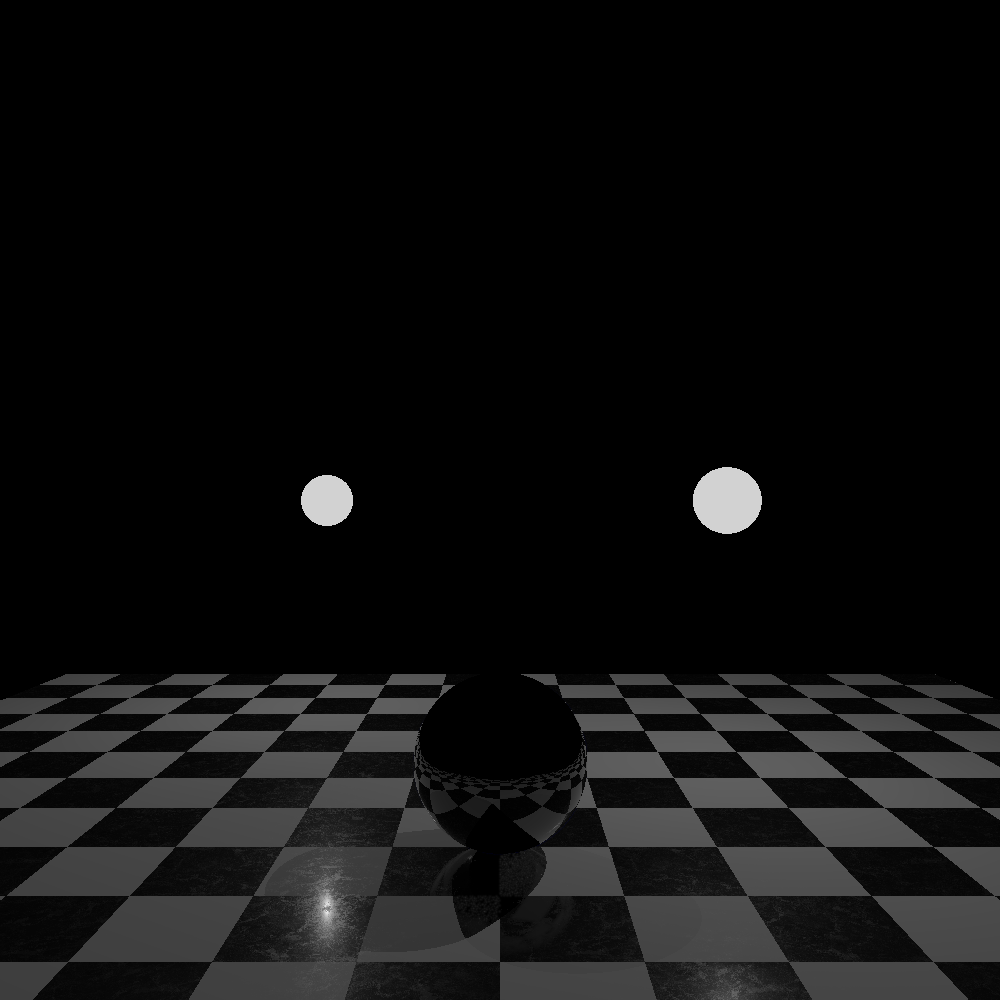
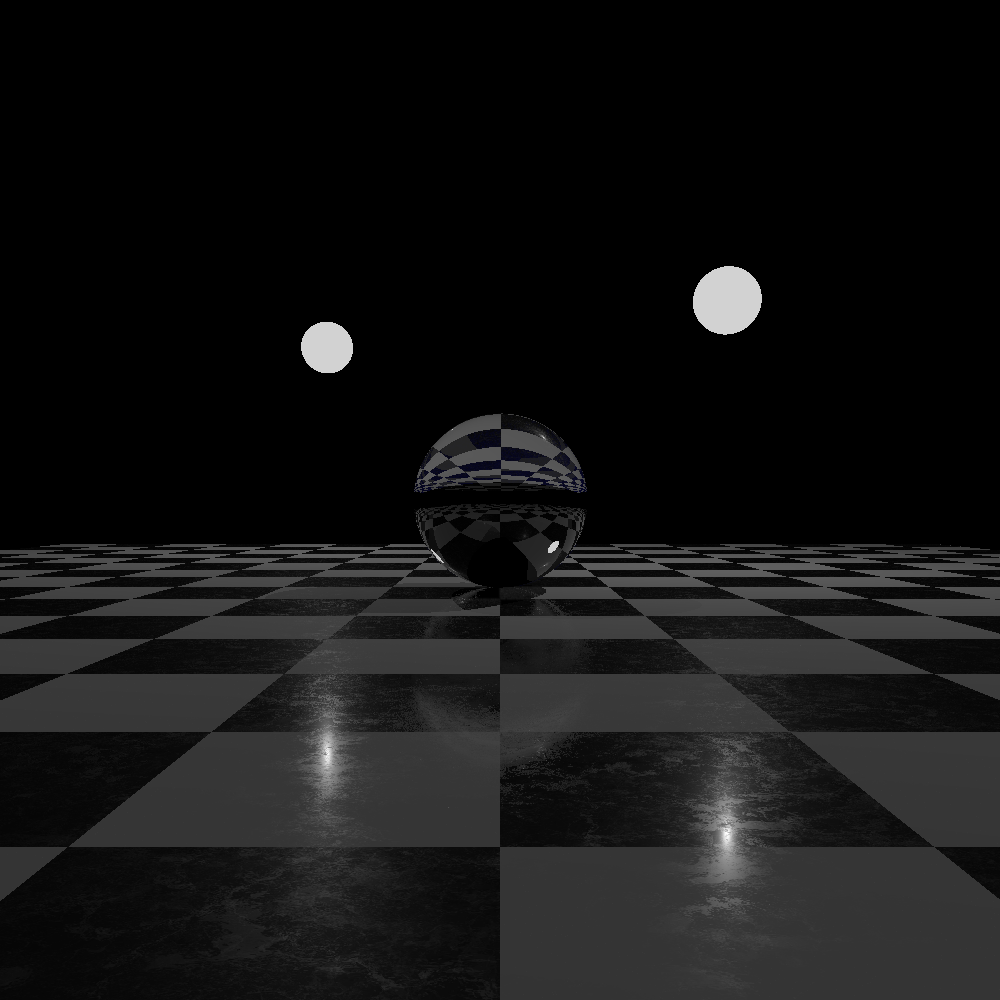
glass cannon perk

diff --git a/src/cgg/RayTracer.java b/src/cgg/RayTracer.java
@@ -376,43 +376,39 @@ public class RayTracer implements Sampler
 			// recalculate
 			p_Normal = multiply(p_Normal,-1);
 			__CosTheta = dot(p_Normal,ray.direction());
-			// FIXME is signswap equivalent?
 
 			// swap factors
 			__N0 = __N1;
 			__N1 = 1.;
 		}
 
-		// fresnel approximation
-		double __Schlick = pow((__N0-__N1)/(__N0+__N1),2.);
-		__Schlick = __Schlick+(1-__Schlick)*pow(1+__CosTheta,5.);
-
-		// in case of total reflection
-		double __R = (__N0/__N1);
-		double __DC = 1-pow(__R,2.)*(1-pow(-__CosTheta,2.));
-		if (__DC<0) __Schlick = 1.;
-
 		// calculate refraction
-		Color __Refraction = color(0,0,.5);
+		double __Schlick = transmissionSchlick(__CosTheta,__N0,__N1);
+		Color __Refraction = color(0,0,0);
 		if (__Schlick<.99)
 		{
-			Vec3 __FacDirection = multiply(ray.direction(),__R);
-			Vec3 __FacDC = multiply(hit.normal(),__R*-__CosTheta-sqrt(__DC));
-			Vec3 __RefDirection = add(__FacDirection,__FacDC);
-			Ray __RefractRay = new Ray(hit.position(),__RefDirection);
-			__Refraction = _processScene(__RefractRay,coord,depth);
+			Vec3 __RefractDirection = refract(ray.direction(),p_Normal,__CosTheta,__N0,__N1);
+			if (__RefractDirection!=null)
+			{
+				Ray __RefractRay = new Ray(hit.position(),__RefractDirection);
+				__Refraction = _processScene(__RefractRay,coord,depth);
+				__Refraction = multiply(__Refraction,1-__Schlick);
+			}
+			else __Schlick = 1.;
 		}
 
 		// calculate reflection
 		Color __Reflection = color(0,0,0);
 		if (__Schlick>.01)
 		{
-			Ray __ReflectRay = new Ray(hit.position(),bounce(ray.direction(),hit.normal()));
+			Ray __ReflectRay = new Ray(hit.position(),bounce(ray.direction(),p_Normal));
 			__Reflection = _processScene(__ReflectRay,coord,depth+1);
+			__Reflection = multiply(__Reflection,__Schlick);
 		}
 
 		// combine components
-		return mix(__Refraction,__Reflection,__Schlick);
+		return add(__Reflection,__Refraction);
+		// FIXME there is some weird blue tint over refraction component
 	}
 
 	private Vec3 _diffuseComponent(Vec2 coord,int depth,Hit hit,Vec3 fresnel,double metallic)

diff --git a/src/tools/Functions.java b/src/tools/Functions.java
@@ -2,6 +2,7 @@ package tools;
 
 import java.lang.Math;
 
+
 /**
  * Utility class providing various mathematical and vector operations.
  */
@@ -1208,6 +1209,25 @@ public class Functions {
 	public static Vec3 bounce(Vec3 dir,Vec3 normal)
 	{
 		return add(dir,multiply(2*dot(multiply(dir,-1),normal),normal));
+	}
+
+	public static double transmissionSchlick(double cosTheta,double n0,double n1)
+	{
+		double out = Math.pow((n0-n1)/(n0+n1),2.);
+		return out+(1-out)*Math.pow(1+cosTheta,5.);
+	}
+
+	public static Vec3 refract(Vec3 dir,Vec3 normal,double cosTheta,double n0,double n1)
+	{
+		// in case of total reflection
+		double __R = (n0/n1);
+		double __DC = 1-Math.pow(__R,2.)*(1-Math.pow(-cosTheta,2.));
+		if (__DC<0) return null;
+
+		// calculate refraction
+		Vec3 __FacDirection = multiply(dir,__R);
+		Vec3 __FacDC = multiply(normal,__R*-cosTheta-Math.sqrt(__DC));
+		return add(__FacDirection,__FacDC);
 	}
 
 	public static Vec3 mix(Vec3 v0,Vec3 v1,double t)

diff --git a/src/cgg/geom/Sphere.java b/src/cgg/geom/Sphere.java
@@ -63,7 +63,12 @@ public class Sphere implements Geometry
 		Hit __Back = _assembleHit(r,ts1,-1);
 
 		// combine hits as primitive geometry output
-		__Front = (__Front==null&&__Back!=null) ? hit_pointblank(r.origin(),material) : __Front;
+		//__Front = (__Front==null&&__Back!=null) ? hit_pointblank(r.origin(),material) : __Front;
+		if (__Front==null&&__Back!=null)
+		{
+			__Front = __Back;
+			__Front.overwriteNormal(multiply(__Front.normal(),-1));
+		}
 		return primitive_hit(new HitTuple(__Front,__Back));
 	}
 

diff --git a/src/cgg/scne/BodhisPoolRepair.java b/src/cgg/scne/BodhisPoolRepair.java
@@ -10,7 +10,7 @@ public class BodhisPoolRepair extends Scene
 {
 	public BodhisPoolRepair()
 	{
-		super(vec3(0,-2.5,5),vec3(0,0,0));
+		super(vec3(0,-1,5),vec3(0,0,0));
 
 		// flooring
 		Structures.floor(groot,vec3(0,0,0),10,4);
